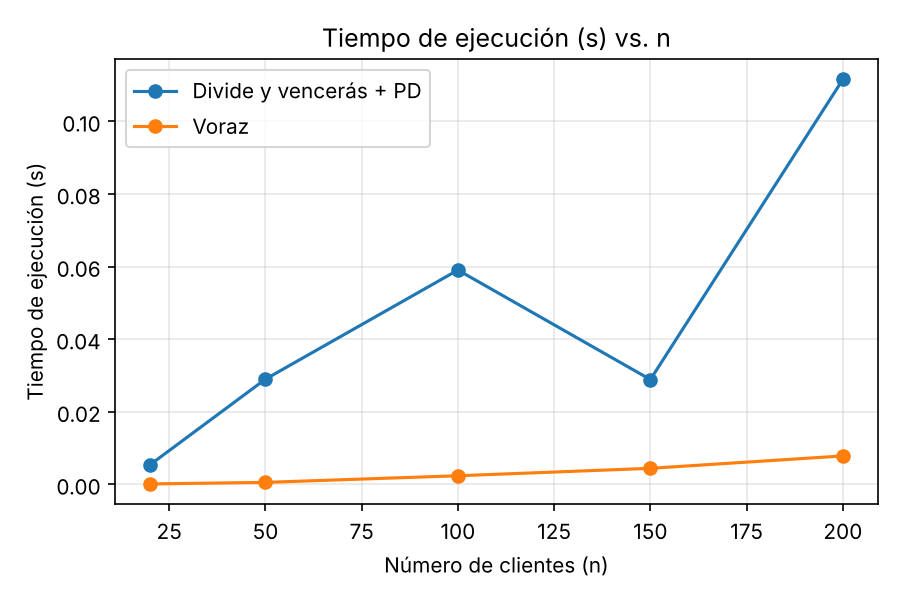
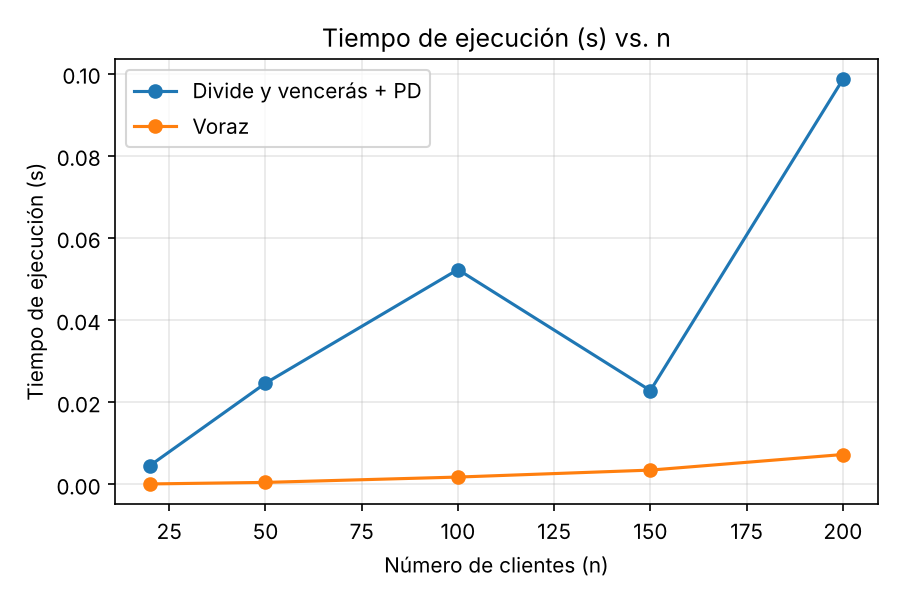
docs(rol08): benchmark, gráficos, casos borde y respuestas
Claude-Session: https://claude.ai/code/session_01RM7UHtVUrxb2iWRKhpXSU1

diff --git a/tests/test_casos_borde.py b/tests/test_casos_borde.py
@@ -1,8 +1,4 @@
-"""ROL 8 - casos borde del sistema completo. Cada integrante de ROL 8 agrega aquí sus pruebas.
-
-TODO (ROL 8): reemplazar los `pytest.skip` por pruebas reales (ver docs/tareas/ROL-08_*.md).
-"""
-import pytest
+"""ROL 8 - casos borde del sistema completo: casos pequeños, capacidad insuficiente y ventanas imposibles."""
 
 from ruta_optima.generador import generar_instancia
 from ruta_optima.solver import comparar
@@ -27,11 +23,21 @@ def test_k_mas_uno_clientes():
     assert all(ev.valida for _, ev in r.values())
 
 
-@pytest.mark.skip(reason="TODO ROL 8: capacidad total insuficiente -> debe haber no_atendidos")
 def test_capacidad_insuficiente():
-    ...
+    from ruta_optima.modelos import Instancia
+    base = generar_instancia(20, 2, semilla=1)
+    inst = Instancia(base.deposito, base.clientes, 2, capacidad=10)   # capacidad total 20 < demanda
+    for nombre, (sol, ev) in comparar(inst, 12).items():
+        assert ev.valida, (nombre, ev.errores)
+        assert ev.no_atendidos > 0
 
 
-@pytest.mark.skip(reason="TODO ROL 8: ventana imposible de cumplir")
 def test_ventanas_imposibles():
-    ...
+    from dataclasses import replace
+    from ruta_optima.modelos import Instancia
+    base = generar_instancia(10, 3, semilla=1)
+    clientes = [replace(c, ventana_ini=0.0, ventana_fin=1.0) for c in base.clientes]  # cierran a las 00:01
+    inst = Instancia(base.deposito, clientes, 3)
+    for nombre, (sol, ev) in comparar(inst, 12).items():
+        assert ev.valida, (nombre, ev.errores)
+        assert ev.atendidos == 0

diff --git a/docs/RESULTADOS.md b/docs/RESULTADOS.md
@@ -2,22 +2,22 @@
 
 |   n | estrategia   |   costo_total |   distancia_km |   pct_atendidos |   tiempo_ejecucion_s |
 |----:|:-------------|--------------:|---------------:|----------------:|---------------------:|
-|  20 | dc_pd        |        408.51 |         183.5  |           86    |                 0.01 |
+|  20 | dc_pd        |        408.51 |         183.5  |           86    |                 0    |
 |  20 | voraz        |        429.77 |         127.26 |           69    |                 0    |
-|  50 | dc_pd        |        993.9  |         380.35 |           92.4  |                 0.03 |
+|  50 | dc_pd        |        993.9  |         380.35 |           92.4  |                 0.02 |
 |  50 | voraz        |       1117.95 |         346.29 |           87.2  |                 0    |
-| 100 | dc_pd        |       1834.42 |         640.73 |           95    |                 0.06 |
+| 100 | dc_pd        |       1834.42 |         640.73 |           95    |                 0.05 |
 | 100 | voraz        |       2016.92 |         651.77 |           97.8  |                 0    |
-| 150 | dc_pd        |       2391.01 |         842.06 |           90.93 |                 0.03 |
+| 150 | dc_pd        |       2391.01 |         842.06 |           90.93 |                 0.02 |
 | 150 | voraz        |       2140.85 |         586.78 |           77.33 |                 0    |
-| 200 | dc_pd        |       2319.23 |         766.47 |           69.1  |                 0.11 |
+| 200 | dc_pd        |       2319.23 |         766.47 |           69.1  |                 0.1  |
 | 200 | voraz        |       2144.23 |         564.16 |           65.7  |                 0.01 |
 
 ## Efecto de k (n = 100)
 
 |   k |   costo_total |   pct_atendidos |   tiempo_ejecucion_s |
 |----:|--------------:|----------------:|---------------------:|
-|   8 |       2120    |          94.333 |                0.003 |
-|  10 |       2120    |          94.333 |                0.003 |
-|  12 |       1840.83 |          95     |                0.062 |
-|  14 |       1495.57 |          93.333 |                0.21  |
+|   8 |       2120    |          94.333 |                0.002 |
+|  10 |       2120    |          94.333 |                0.002 |
+|  12 |       1840.83 |          95     |                0.059 |
+|  14 |       1495.57 |          93.333 |                0.161 |

diff --git a/docs/tareas/ROL-08_benchmark-pruebas.md b/docs/tareas/ROL-08_benchmark-pruebas.md
@@ -73,9 +73,9 @@ Tu guion de 1 minuto para la exposición está en `docs/PRESENTACION.md` (busca 
 ## Mis respuestas
 _(Escribe aquí tus respuestas, 2 o 3 líneas por pregunta.)_
 
-1. 
-2. 
-3. 
+1. Depende de n. **Divide y vencerás + PD** tiene menor costo con 20, 50 y 100 clientes (por ejemplo, S/ 993.90 vs S/ 1117.95 con 50), y atiende más clientes con 20, 50, 150 y 200. Con 100 clientes el voraz atiende un poco más (97.8 % vs 95.0 %). Con 150 y 200 el voraz sale más barato, pero porque atiende a menos clientes (77.3 % vs 90.9 % con 150). El voraz siempre es el más rápido (milisegundos).
+2. Con k = 8 y k = 10 el costo es igual (S/ 2120.00) y tarda unos 0.002 s. Con k = 12 baja a S/ 1840.83 (0.06 s) y con k = 14 baja a S/ 1495.57, pero tarda 0.16 s. Es decir, zonas más grandes dan rutas más baratas porque Held-Karp optimiza más clientes juntos, pero el tiempo crece muy rápido (O(k²·2^k)). Por eso usamos k = 12 como punto medio.
+3. Porque una sola instancia puede salir "con suerte" o "sin suerte" para una estrategia (clientes muy juntos o muy dispersos). Con 5 semillas distintas probamos 5 problemas diferentes de cada tamaño y promediamos, así el resultado es más confiable y la comparación es justa. Además, cada semilla es reproducible: cualquiera puede repetir el experimento y obtener los mismos números.
 
 ## Paso 5. Subir tu trabajo (rama → Pull Request → main)
 ```bash
@@ -87,8 +87,8 @@ En GitHub: **Compare & pull request** hacia `main` → completa la plantilla →
 Antes de abrir el PR, cambia en el `README.md` **solo tu fila** del tablero: pon tu nombre y ✅. Guía de Git: `docs/GUIA_GIT.md`.
 
 ## Lista de verificación
-- [ ] Ejecuté el comando del Paso 2 sin errores
-- [ ] Guardé los archivos de entrega
-- [ ] Escribí mis respuestas
-- [ ] Actualicé mi fila del README
-- [ ] Abrí el Pull Request y se unió a `main`
+- [x] Ejecuté el comando del Paso 2 sin errores
+- [x] Guardé los archivos de entrega
+- [x] Escribí mis respuestas
+- [x] Actualicé mi fila del README
+- [x] Abrí el Pull Request y se unió a `main`
